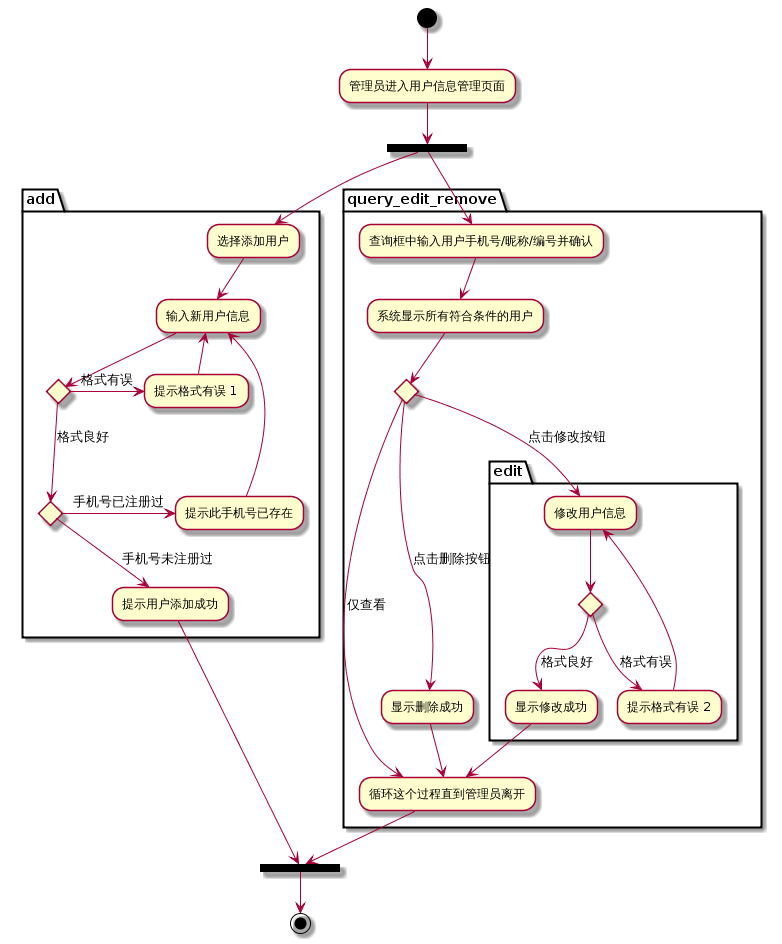
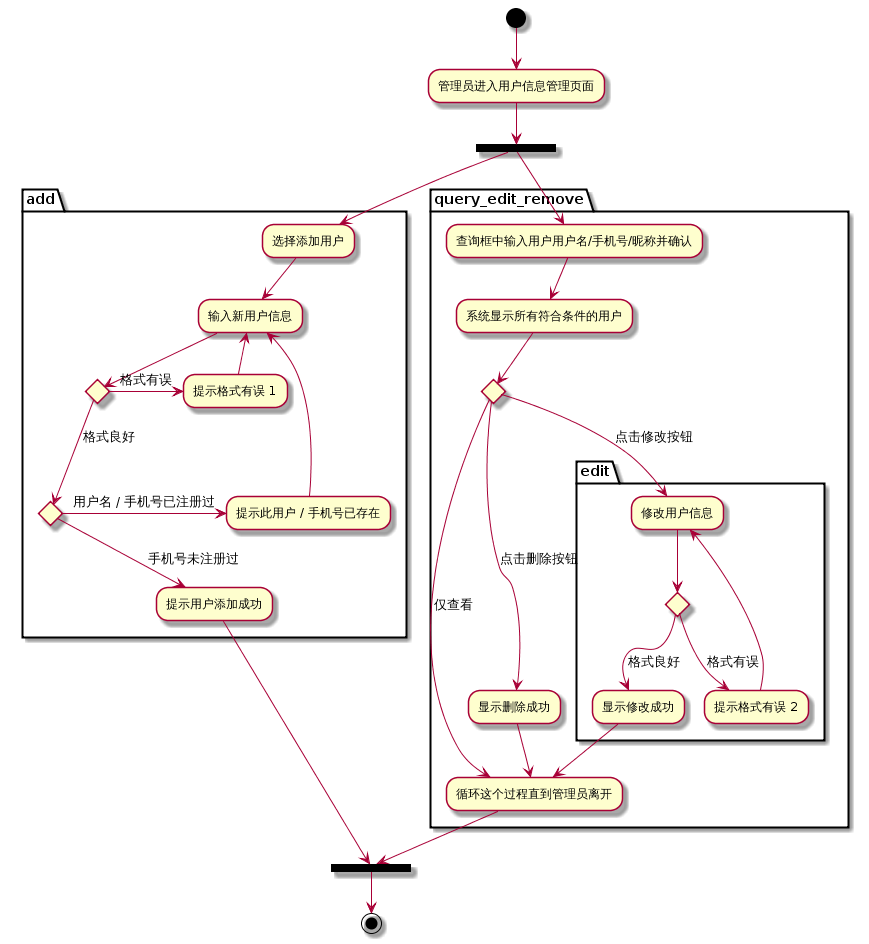
Fix: 依数据库设计修改需求文档中活动图 (#20)
- 修改活动图使其与数据库设计文档中的数据定义一致
- 为保持数据定义的一致性，删除需求文档中的数据字典，仅保留数据库设计中
  的数据定义

Changed region(s): [[0.0, 0.0, 0.9821, 1.0], [0.6138, 0.4301, 0.6445, 0.4608], [0.3683, 0.8294, 0.399, 0.8602]]

diff --git a/需求与设计/需求说明文档.md b/需求与设计/需求说明文档.md
@@ -12,40 +12,33 @@
 * 4. [用户功能需求](#-8)
 	* 4.1. [总功能表与用例图](#-9)
 	* 4.2. [数据字典](#-10)
-		* 4.2.1. [用户信息](#-11)
-		* 4.2.2. [收货人信息](#-12)
-		* 4.2.3. [订单信息](#-13)
-		* 4.2.4. [商品信息](#-14)
-		* 4.2.5. [店铺信息](#-15)
-		* 4.2.6. [管理员信息](#-16)
-		* 4.2.7. [事务（投诉 / 申请）](#-17)
-	* 4.3. [游客 / 用户](#-18)
-		* 4.3.1. [游客 / 用户商品查询与浏览](#-19)
-		* 4.3.2. [游客 / 用户购物车管理](#-20)
-		* 4.3.3. [游客 / 用户登陆与注册](#-21)
-		* 4.3.4. [用户个人信息管理](#-22)
-		* 4.3.5. [用户收货人管理](#-23)
-		* 4.3.6. [用户收藏夹管理](#-24)
-		* 4.3.7. [用户投诉商家与开店申请](#-25)
-		* 4.3.8. [用户发起订单](#-26)
-		* 4.3.9. [用户管理订单](#-27)
-	* 4.4. [商家](#-28)
-		* 4.4.1. [订单管理](#-29)
-		* 4.4.2. [店铺信息管理](#-30)
-		* 4.4.3. [商品管理](#-31)
-		* 4.4.4. [销售统计](#-32)
-	* 4.5. [管理员](#-33)
-		* 4.5.1. [登录](#-34)
-		* 4.5.2. [对用户信息管理](#-35)
-		* 4.5.3. [处理投诉 / 申请](#-36)
-		* 4.5.4. [查询订单](#-37)
-		* 4.5.5. [对店铺信息管理](#-38)
-	* 4.6. [投诉 / 申请状态转换图](#-39)
-	* 4.7. [订单状态转换与可见性](#-40)
-* 5. [用户非功能需求](#-41)
-	* 5.1. [性能要求](#-42)
-	* 5.2. [输入输出要求](#-43)
-	* 5.3. [故障处理要求](#-44)
+	* 4.3. [游客 / 用户](#-11)
+		* 4.3.1. [游客 / 用户商品查询与浏览](#-12)
+		* 4.3.2. [游客 / 用户购物车管理](#-13)
+		* 4.3.3. [游客 / 用户登陆与注册](#-14)
+		* 4.3.4. [用户个人信息管理](#-15)
+		* 4.3.5. [用户收货人管理](#-16)
+		* 4.3.6. [用户收藏夹管理](#-17)
+		* 4.3.7. [用户投诉商家与开店申请](#-18)
+		* 4.3.8. [用户发起订单](#-19)
+		* 4.3.9. [用户管理订单](#-20)
+	* 4.4. [商家](#-21)
+		* 4.4.1. [订单管理](#-22)
+		* 4.4.2. [店铺信息管理](#-23)
+		* 4.4.3. [商品管理](#-24)
+		* 4.4.4. [销售统计](#-25)
+	* 4.5. [管理员](#-26)
+		* 4.5.1. [登录](#-27)
+		* 4.5.2. [对用户信息管理](#-28)
+		* 4.5.3. [处理投诉 / 申请](#-29)
+		* 4.5.4. [查询订单](#-30)
+		* 4.5.5. [对店铺信息管理](#-31)
+	* 4.6. [投诉 / 申请状态转换图](#-32)
+	* 4.7. [订单状态转换与可见性](#-33)
+* 5. [用户非功能需求](#-34)
+	* 5.1. [性能要求](#-35)
+	* 5.2. [输入输出要求](#-36)
+	* 5.3. [故障处理要求](#-37)
 
 <!-- /vscode-markdown-toc -->
 
@@ -126,92 +119,11 @@
 
 数据字典描述要和系统交互的数据。
 
-####  4.2.1. <a name='-11'></a>用户信息
+数据字典已移入数据库设计文档中。
 
-|属性|是否可为空|说明|
-|:---|:---:|:---|
-|用户名|否|**注册/登陆时填写**。**唯一**。字母、数字、'-'、'_'的组合，不超过 20 个字符。|
-|密码|否|**注册/登陆时填写**。字母、数字、'-'、'_'的组合，不少于 6 个字符、不超过 20 个字符。|
-|头像|是|可为空，图片名称。为空时显示默认头像。|
-|性别|是|枚举。"男 / 女 / 保密"。|
-|出生日期|是||
+###  4.3. <a name='-11'></a>游客 / 用户
 
-除用户名以外的所有信息均可修改，但修改时必须能够满足表格中描述的约束条件。
-
-####  4.2.2. <a name='-12'></a>收货人信息
-
-|属性|是否可为空|说明|
-|:---|:---:|:---|
-|姓名|否|由中文、英文字母组成，不能含有其他字符。|
-|手机号|否|11 位手机号。|
-|地址|否|[中文\|英文] + 数字|
-|已使用次数|否|**用户不可见**。默认 0。|
-
-所有信息均可修改，但修改时必须能够满足表格中描述的约束条件。
-
-####  4.2.3. <a name='-13'></a>订单信息
-
-|属性|是否可为空|说明|
-|:---|:---:|:---|
-|订单编号|否|唯一。提交订单时系统自动生成。16 位数字，从 1 开始，不够十六位使用前导 0 补足|
-|运单号|是|用户下单时为空，商家发货时必须填写运单号。12 位纯数字。|
-|下单时间|否|精确到秒|
-|完成时间|是||
-|收货人信息|否||
-|支付方式|否|枚举。货到付款/在线支付|
-|备注|是|不超过 100 个任意字符|
-|商品信息|否|包括数量和基本商品信息|
-|金额|否|总金额。10 位有效位，精确到小数点后 2 位|
-
-####  4.2.4. <a name='-14'></a>商品信息
-
-|属性|是否可为空|说明|
-|:---|:---:|:---|
-|示意图|是|若为空，则显示默认商品图。不超过 20 个字符|
-|名称|否|由中文、英文组成，不能含有其他特殊字符|
-|描述|是|不超过 300 个任意字符|
-|分类|否|分类编号。整型|
-|进价|否|10 位有效位，精确到小数点后 2 位|
-|售价|否|10 位有效位，精确到小数点后 2 位|
-|销量|否|整型。初始为 0|
-|库存|否|整型。初始为 0|
-
-所有信息均可修改，但修改时必须能够满足表格中描述的约束条件。
-
-####  4.2.5. <a name='-15'></a>店铺信息
-
-|属性|是否可为空|说明|
-|:---|:---:|:---|
-|注册号|否|**开店时填写**，必须输入有效注册号才能申请开店。15 位纯数字|
-|店铺名|否|**开店时填写**，不超过 30 个任意字符。|
-|店铺地址|否|**开店时填写**，不超过 100 个任意字符。|
-|联系方式|否|**开店时填写**。 11 位纯数字|
-|店铺描述|是|未设置则显示默认值--"暂无描述"。不超过 300 个任意字符。|
-|店铺公告|是|未设置则显示默认值--"暂无公告"。不超过 200 个任意字符。|
-|店铺评分|否|整型。初始为 0|
-
-除注册号和店铺评分外，所有信息均可修改，但修改时必须能够满足表格中描述的约束条件。
-
-####  4.2.6. <a name='-16'></a>管理员信息
-
-|属性|是否可为空|说明|
-|:---|:---:|:---|
-|编号|否|**管理员登陆时填写**。4 位数字。从 1000 开始|
-|密码|否|**管理员登陆时填写**。6 - 20 个字符。由字母、数字、下划线组成。|
-|昵称|否|处理事务时显示。不超过 20 个任意字符|
-
-####  4.2.7. <a name='-17'></a>事务（投诉 / 申请）
-
-|属性|是否可为空|说明|
-|:---|:---:|:---|
-|编号|否|8 位数字。从 1 开始。不足 8 位，使用前导 0 补足。|
-|类型|否|枚举。"开店申请 / 商店投诉"|
-|状态|否|枚举。"未处理 / 已拒绝 / 已通过"|
-|描述|否|事务信息说明。不超过 500 个任意字符。|
-
-###  4.3. <a name='-18'></a>游客 / 用户
-
-####  4.3.1. <a name='-19'></a>游客 / 用户商品查询与浏览
+####  4.3.1. <a name='-12'></a>游客 / 用户商品查询与浏览
 
 系统要支持目录和关键词两种方式搜索。
 
@@ -219,7 +131,7 @@
 
 ![游客 / 用户商品查询与浏览](../images/srs/user_browe-goods.png)
 
-####  4.3.2. <a name='-20'></a>游客 / 用户购物车管理
+####  4.3.2. <a name='-13'></a>游客 / 用户购物车管理
 
 游客 / 用户可以通过商品页面直接填加商品到购物车。在管理购物车时，可以修改商品数量，也可以直接删除商品。游客  / 用户购物车在关闭浏览器或者退出登录后仍保留。
 
@@ -227,21 +139,21 @@
 
 ![游客 / 用户购物车管理](../images/srs/user_shopping-cart.png)
 
-####  4.3.3. <a name='-21'></a>游客 / 用户登陆与注册
+####  4.3.3. <a name='-14'></a>游客 / 用户登陆与注册
 
-游客可以通过注册来获取账户，帐号为注册时使用的手机号，密码为一组满足特定要求的字符串，具体见数据字典。
+游客可以通过注册来获取账户，注册时要提供自定义的用户名和可用的手机号，用户密码要满足特定的要求，具体见数据字典。
 
 游客 / 用户登录与注册用例活动图如下：
 
 ![游客 / 用户登录与注册](../images/srs/user_login-register.png)
 
-####  4.3.4. <a name='-22'></a>用户个人信息管理
+####  4.3.4. <a name='-15'></a>用户个人信息管理
 
 用户可以修改自己除用户名以外的任何个人信息，但不允许自主删除帐号。
 
 用户个人信息管理过程过于简单，不提供用例活动图。
 
-####  4.3.5. <a name='-23'></a>用户收货人管理
+####  4.3.5. <a name='-16'></a>用户收货人管理
 
 系统要记录用户收货地址使用次数，当用户管理或挑选地址使用时将使用次数最多的地址排在首位。当用户自主删除收货人时，系统要保留数据，以备后用。
 
@@ -249,7 +161,7 @@
 
 ![用户收货人管理](../images/srs/user_consignee.png)
 
-####  4.3.6. <a name='-24'></a>用户收藏夹管理
+####  4.3.6. <a name='-17'></a>用户收藏夹管理
 
 用户可以直接在商品页面点击收藏按钮收藏商品，在店铺页面点击收藏按钮收藏店铺。在管理收藏夹时，可以将任意的店铺和商品从收藏夹中删除。用户自主删除收藏后，系统要保留数据，以备后用。
 
@@ -257,7 +169,7 @@
 
 ![用户收藏夹管理](../images/srs/user_favorites.png)
 
-####  4.3.7. <a name='-25'></a>用户投诉商家与开店申请
+####  4.3.7. <a name='-18'></a>用户投诉商家与开店申请
 
 用户若对商家或订单有所不满，所可以以已有订单作为投诉依据。在发起投诉时，系统要提示用户先与商家沟通，减少系统中总投诉的数量。投诉由管理员处理。
 
@@ -271,7 +183,7 @@
 
 ![商家（用户）发起开店申请](../images/srs/user_apply.png)
 
-####  4.3.8. <a name='-26'></a>用户发起订单
+####  4.3.8. <a name='-19'></a>用户发起订单
 
 用户通过在购物车中挑选商品发起订单。
 
@@ -279,7 +191,7 @@
 
 ![用户发起订单](../images/srs/user_order.png)
 
-####  4.3.9. <a name='-27'></a>用户管理订单
+####  4.3.9. <a name='-20'></a>用户管理订单
 
 用户在订单管理中心能看到自己所有状态的所有订单，但只能查看详细信息或对订单确认收货，不能删除订单。订单管理中心要提供用户按时间和按关键词两种查询方式。当用户确认收货时，不管当前订单状态是什么，标识着一个订单的结束。订单完成或后用户可以立即或稍后对商品进行评价，评价将影响店铺评价等级。
 
@@ -287,9 +199,9 @@
 
 ![用户管理订单](../images/srs/user_order-manag.png)
 
-###  4.4. <a name='-28'></a>商家
+###  4.4. <a name='-21'></a>商家
 
-####  4.4.1. <a name='-29'></a>订单管理
+####  4.4.1. <a name='-22'></a>订单管理
 
 商家可见的订单状态有限，具体描述如如『订单状态转换与可见性』一节描述。商家可以查看订单详细信息和对订单进行发货，且支持批量发货操作。管理中心要提供按时间范围查询和按关键词查询两种方式。
 
@@ -297,7 +209,7 @@
 
 ![商家管理订单](../images/srs/seller_order-manag.png)
 
-####  4.4.2. <a name='-30'></a>店铺信息管理
+####  4.4.2. <a name='-23'></a>店铺信息管理
 
 商家可以修改自己店铺信息，不允许自主删除店铺。
 
@@ -305,7 +217,7 @@
 
 ![商家店铺信息管理](../images/srs/seller_shop-manag.png)
 
-####  4.4.3. <a name='-31'></a>商品管理
+####  4.4.3. <a name='-24'></a>商品管理
 
 商家可以对自己店铺内的商品进行添加、修改、删除。商家可以对指定产品进行定时打折，可以指定打折后的金额或打折的比例。当商家 / 管理员删除商品时，系统要保留数据，以备后用。
 
@@ -313,7 +225,7 @@
 
 ![商家商品管理](../images/srs/seller_goods-manag.png)
 
-####  4.4.4. <a name='-32'></a>销售统计
+####  4.4.4. <a name='-25'></a>销售统计
 
 销售统计要产生报表，包括对店铺内整体、单个商品销售情况统计：
 
@@ -330,17 +242,17 @@
 
 ![商家销售统计](../images/srs/seller_statistics.png)
 
-###  4.5. <a name='-33'></a>管理员
+###  4.5. <a name='-26'></a>管理员
 
 管理员不能自主注册，只能通过给定的帐号进行登录。
 
-####  4.5.1. <a name='-34'></a>登录
+####  4.5.1. <a name='-27'></a>登录
 
 管理员登录时候供编号和密码。
 
 登录过程过于简单，不提供用例活动图：）
 
-####  4.5.2. <a name='-35'></a>对用户信息管理
+####  4.5.2. <a name='-28'></a>对用户信息管理
 
 管理员可以通过用户手机号或用户名或昵称来定位用户。管理员可以添加系统用户、修改任何用户的个人信息，也可以删除任何用户。当管理员删除用户时，系统要保留数据，以备后用。
 
@@ -348,7 +260,7 @@
 
 ![管理员对用户信息管理](../images/srs/admin_user-manag.png)
 
-####  4.5.3. <a name='-36'></a>处理投诉 / 申请
+####  4.5.3. <a name='-29'></a>处理投诉 / 申请
 
 管理员在处理投诉 / 申请时，要能直接点击订单号获取订单详细信息。
 
@@ -356,13 +268,13 @@
 
 ![管理员处理投诉与开店申请](../images/srs/admin_deal-transact.png)
 
-####  4.5.4. <a name='-37'></a>查询订单
+####  4.5.4. <a name='-30'></a>查询订单
 
 所有订单的所有状态对管理员可见。管理员可以通过订单号查询订单、查看订单详细信息，但不可操作订单状态。
 
 查询订单过程过于简单，不提供用例活动图。
 
-####  4.5.5. <a name='-38'></a>对店铺信息管理
+####  4.5.5. <a name='-31'></a>对店铺信息管理
 
 管理员可以修改任何店铺信息，可以删除任何店铺。当管理员删除店铺时，系统要保留数据，以备后用。
 
@@ -370,7 +282,7 @@
 
 ![管理员对店铺信息管理](../images/srs/admin_shop-manag.png)
 
-###  4.6. <a name='-39'></a>投诉 / 申请状态转换图
+###  4.6. <a name='-32'></a>投诉 / 申请状态转换图
 
 投诉 / 申请由用户发起，由管理员处理 / 拒绝。
 
@@ -378,7 +290,7 @@
 
 ![投诉 / 申请状态转换图](../images/srs/transact-state.png)
 
-###  4.7. <a name='-40'></a>订单状态转换与可见性
+###  4.7. <a name='-33'></a>订单状态转换与可见性
 
 用户行为与订单状态转换图如下：
 
@@ -388,17 +300,17 @@
 
 ![订单状态可见性](../images/srs/order-state-vis.png)
 
-##  5. <a name='-41'></a>用户非功能需求
+##  5. <a name='-34'></a>用户非功能需求
 
-###  5.1. <a name='-42'></a>性能要求
+###  5.1. <a name='-35'></a>性能要求
 
 系统响应时间在可接受范围内。
 
-###  5.2. <a name='-43'></a>输入输出要求
+###  5.2. <a name='-36'></a>输入输出要求
 
 - 所有用户要求有良好的操作界面。
 - 商家和管理员要求良好的报表生成。
 
-###  5.3. <a name='-44'></a>故障处理要求
+###  5.3. <a name='-37'></a>故障处理要求
 
 应能够提供相应的故障处理能力，保证系统正常运行。
